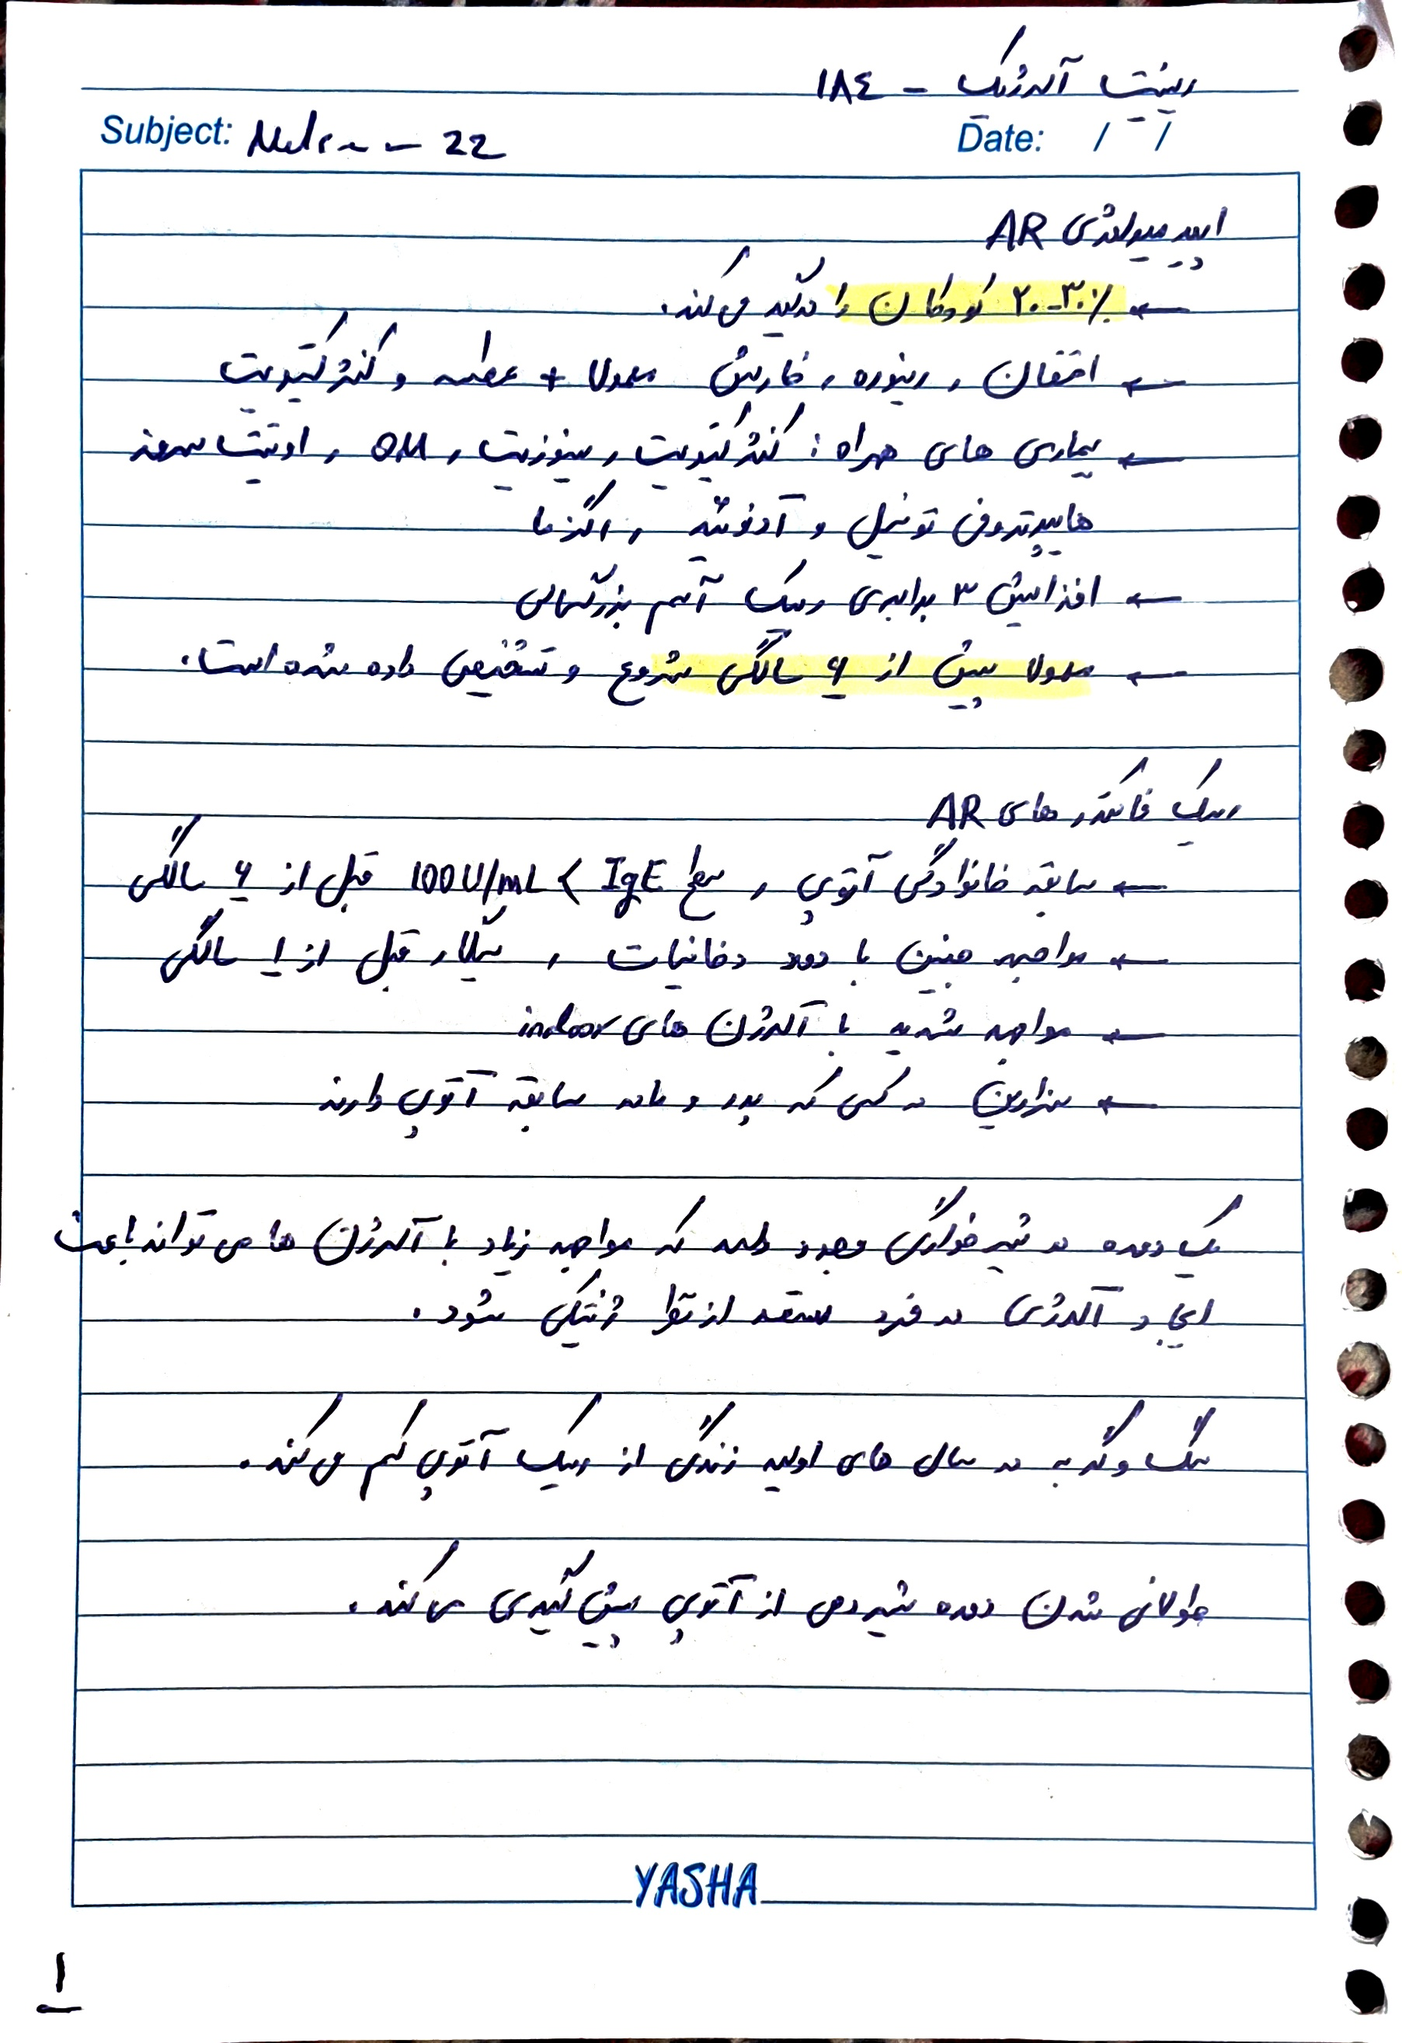
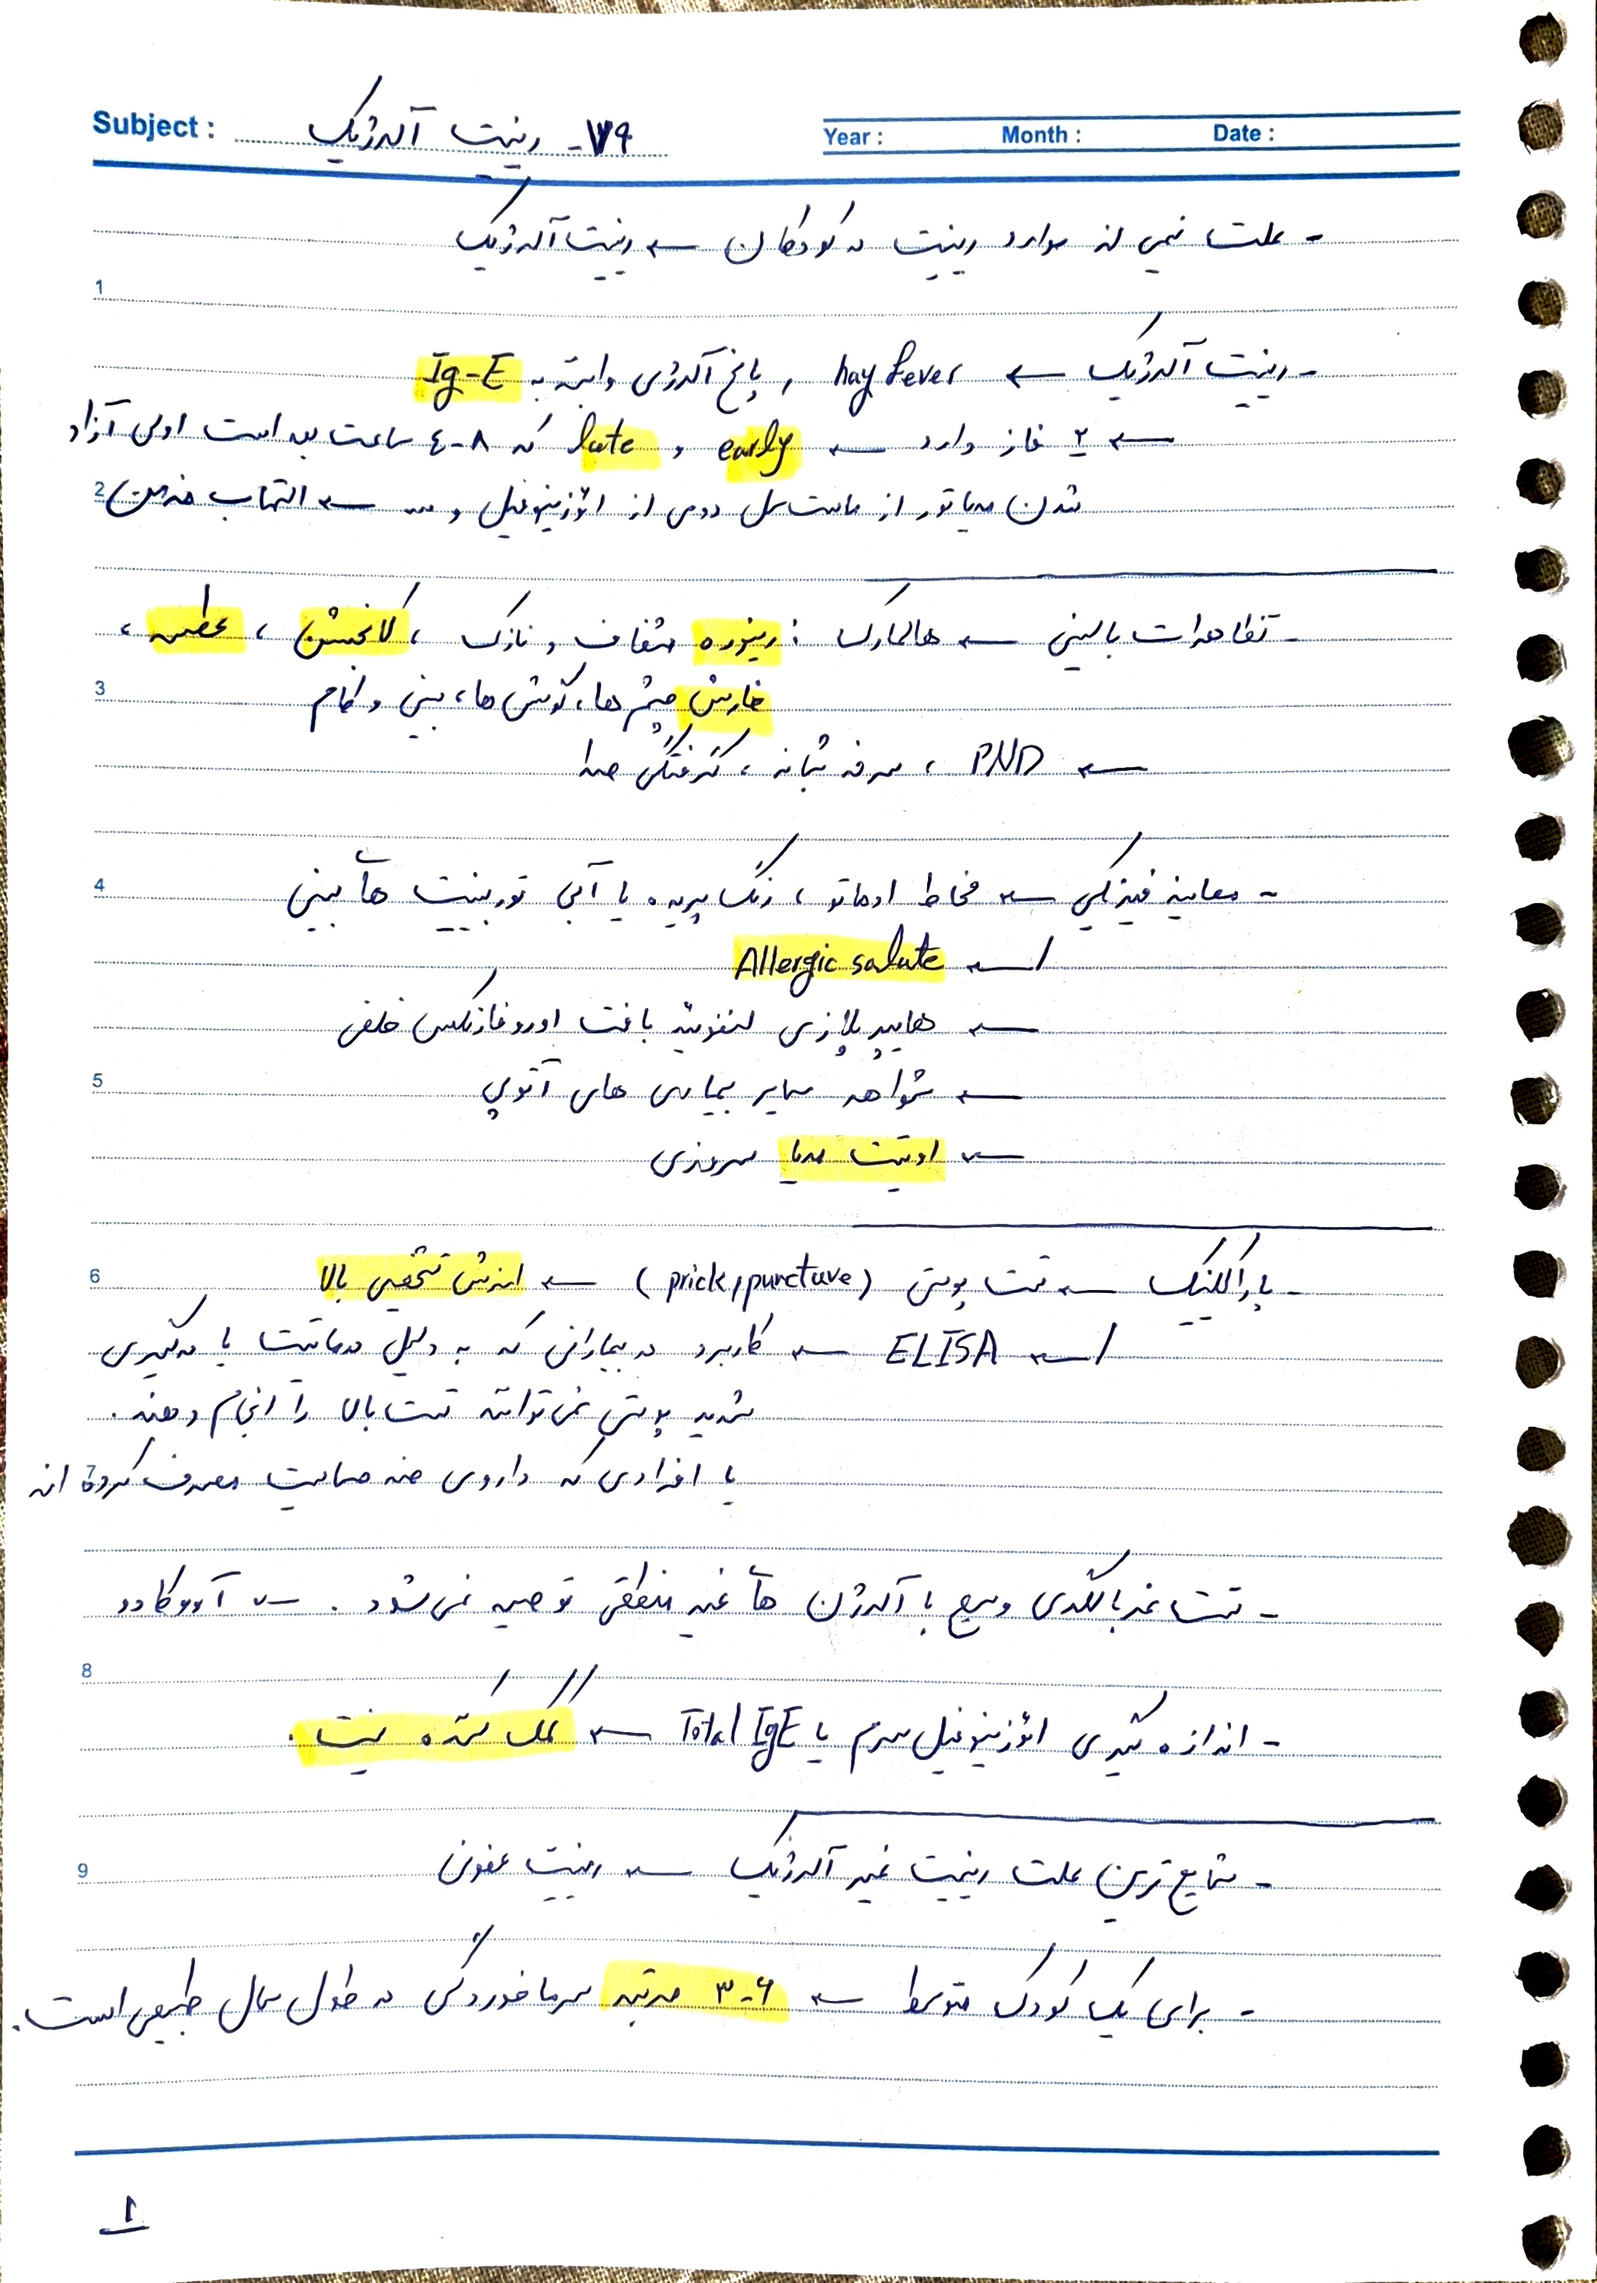
Add allergic rhinitis

Changed region(s): [[0.0, 0.0, 1.0, 1.0], [0.031, 0.7174, 0.062, 0.7486], [0.0, 0.6862, 0.031, 0.7174]]

diff --git a/pediatrics/ped-immunology/allergic rhinitis/allergic rhinitis.tex b/pediatrics/ped-immunology/allergic rhinitis/allergic rhinitis.tex
@@ -2,15 +2,20 @@
 % UTF-8. Standalone: run xelatex "allergic rhinitis.tex" in this directory.
 % Inclusion: define \AllergicRhinitisInNotebook before \input in a XePersian document.
 % Source: Google Drive Notebook/allergic rhinitis, ascending original filename order.
-% pic01.jpg = 20261012_174728683.jpg; 1UWvvunrlol2BDllTc7tXSwr3hFYJk3xF
-% pic02.jpg = 20261012_174733697.jpg; 1tN04Yz6Duy6MEhcEBW_KpUhMVedJr-67
-% pic03.jpg = 20261012_174737021.jpg; 1PRBROUplLNht5UudHy7kkrmO8-r-gJGO
-% pic04.jpg = 20261012_174741948.jpg; 16fUHRWqQ1mqpsI6fzSbtcIyt0GnQSTdq
-% pic05.jpg = 20261012_174746233.jpg; 1zIyxUjajWK0vhNuuFlQqSl-K9kXNowVv
-% pic06.jpg = 20261012_174750500.jpg; 1pCa0sOH4Js1AFCS9HGTjWpBRB7xfALXr
-% pic07.jpg = 20261012_174754320.jpg; 1OBGEi_2po_KetAK2e7w0Btf_9_wilItP
-% pic08.jpg = 20261012_174758690.jpg; 1JQRxSGRJ6f2QwZczjzWiC0g65hoUOYUD
-% pic09.jpg = 20261012_174802404.jpg; 1bgovOosWvuvWcqPqOOCc6Sz2x_YK5C2f
+% Earlier images are preserved byte-for-byte under images/previous/.
+% previous/pic01.jpg = 20261012_174728683.jpg; 1UWvvunrlol2BDllTc7tXSwr3hFYJk3xF
+% previous/pic02.jpg = 20261012_174733697.jpg; 1tN04Yz6Duy6MEhcEBW_KpUhMVedJr-67
+% previous/pic03.jpg = 20261012_174737021.jpg; 1PRBROUplLNht5UudHy7kkrmO8-r-gJGO
+% previous/pic04.jpg = 20261012_174741948.jpg; 16fUHRWqQ1mqpsI6fzSbtcIyt0GnQSTdq
+% previous/pic05.jpg = 20261012_174746233.jpg; 1zIyxUjajWK0vhNuuFlQqSl-K9kXNowVv
+% previous/pic06.jpg = 20261012_174750500.jpg; 1pCa0sOH4Js1AFCS9HGTjWpBRB7xfALXr
+% previous/pic07.jpg = 20261012_174754320.jpg; 1OBGEi_2po_KetAK2e7w0Btf_9_wilItP
+% previous/pic08.jpg = 20261012_174758690.jpg; 1JQRxSGRJ6f2QwZczjzWiC0g65hoUOYUD
+% previous/pic09.jpg = 20261012_174802404.jpg; 1bgovOosWvuvWcqPqOOCc6Sz2x_YK5C2f
+% New three-page transcription appended after the earlier source appendix.
+% pic01.jpg = 20261018_195817441.jpg; 1PtsGl9k_aM0tBnisLDq75FLkIIIZ8Xmn
+% pic02.jpg = 20261018_195821800.jpg; 19Ts1azzm9DvZgiHx91SMA798DvaapjC0
+% pic03.jpg = 20261018_195830142.jpg; 1e4OoS-GkgsVvxT_qgqTAgiX_0mqXqnHV
 \ifdefined\AllergicRhinitisInNotebook
   \let\ARfinish\relax
 \else
@@ -280,9 +285,9 @@
 \end{itemize}
 
 \clearpage\section*{پیوست: تصاویر کامل منبع}
-\IfFileExists{images/pic01.jpg}
-  {\def\ARimagepath{images/}}
-  {\def\ARimagepath{pediatrics/ped-immunology/allergic rhinitis/images/}}
+\IfFileExists{images/previous/pic01.jpg}
+  {\def\ARimagepath{images/previous/}}
+  {\def\ARimagepath{pediatrics/ped-immunology/allergic rhinitis/images/previous/}}
 \newcommand{\ARoriginal}[1]{\clearpage\begin{center}
   \textbf{تصویر اصلی \lr{#1}}\par\smallskip
   \includegraphics[width=\textwidth,height=0.89\textheight,keepaspectratio]{\ARimagepath pic#1.jpg}
@@ -296,5 +301,145 @@
 \ARoriginal{07}
 \ARoriginal{08}
 \ARoriginal{09}
+
+\clearpage
+\begin{center}
+{\Large\bfseries رینیت آلرژیک ـ ۷۹}\par
+{\large یادداشتهای سهصفحهای}
+\end{center}
+
+% New source image 01: 20261018_195817441.jpg (handwritten page 1).
+\section*{تصویر جدید ۱}
+\textbf{سربرگ و حاشیه:} \lr{Subject:} ۷۹ ـ رینیت آلرژیک؛
+\lr{Year:}، \lr{Month:}، \lr{Date:} (خالی)؛
+شمارههای چاپی کنار سطرها: ۱، ۲، ۳، ۴، ۵، ۶، ۷، ۸، ۹؛ شمارهٔ دستنویس پایین صفحه: ۱.
+
+\subsection*{رینیت آلرژیک}
+\begin{itemize}
+\item علت نیمی از موارد رینیت در کودکان: رینیت آلرژیک.
+\item رینیت آلرژیک: \lr{hay fever}، پاسخ آلرژی وابسته به \textbf{\lr{Ig-E}}.
+\item ۲ فاز دارد: \textbf{\lr{early}} و \textbf{\lr{late}} که \ARrange{4}{8} ساعت بعد است؛ اولی آزاد شدن مدیاتور از ماستسل، دومی از ائوزینوفیل و \ldots؛ التهاب مزمن.
+\end{itemize}
+
+\subsection*{تظاهرات بالینی}
+\begin{itemize}
+\item هالمارک: \textbf{رینورهٔ} شفاف و نازک، \textbf{لاکریمیشن}، \textbf{عطسه}، \textbf{خارش} چشمها، گوشها، بینی و کام.
+\item \lr{PND}، سرفهٔ شبانه، گرفتگی صدا.
+\end{itemize}
+
+\subsection*{معاینهٔ فیزیکی}
+\begin{itemize}
+\item مخاط ادماتو، رنگپریده یا آبی توربینتهای بینی.
+\item \textbf{\lr{Allergic salute}}.
+\item هایپرپلازی لنفوئید بافت اوروفارنکس خلف.
+\item شواهد سایر بیماریهای آتوپی.
+\item \textbf{اوتیت مدیا} سروزی.
+\end{itemize}
+
+\subsection*{پاراکلینیک}
+\begin{itemize}
+\item تست پوستی (\lr{prick, puncture}): \textbf{ارزش تشخیصی بالا}.
+\item \lr{ELISA}: کاربرد در بیمارانی که به دلیل درماتیت یا درموگرافیسم شدید پوستی نمیتوانند تست بالا را انجام دهند؛ یا افرادی که داروی ضدحساسیت مصرف کردهاند.
+\item تست غربالگری وسیع با آلرژنها غیرمنطقی توصیه نمیشود. \ldots{} ـ آووکادو.
+\item اندازهگیری ائوزینوفیل سرم یا \lr{Total IgE}: \textbf{کمککننده نیست}.
+\end{itemize}
+
+\subsection*{رینیت غیرآلرژیک}
+\begin{itemize}
+\item شایعترین علت رینیت غیرآلرژیک: رینیت عفونی.
+\item برای یک کودک متوسط، \textbf{\ARrange{3}{6} مرتبه} سرماخوردگی در طول سال طبیعی است.
+\end{itemize}
+
+% New source image 02: 20261018_195821800.jpg (handwritten page 2).
+\clearpage\section*{تصویر جدید ۲}
+\textbf{سربرگ و حاشیه:} \lr{Subject:} ۷۹ ـ رینیت آلرژیک؛
+\lr{Year:}، \lr{Month:}، \lr{Date:} (خالی)؛
+شمارههای چاپی کنار سطرها: ۱، ۲، ۳، ۴، ۵، ۶، ۷، ۸، ۹؛ شمارهٔ دستنویس پایین صفحه: ۲.
+
+\subsection*{رینیت غیرآلرژیک غیرعفونی (رینیت وازوموتور)}
+\begin{itemize}
+\item رینوره، عطسه، دیسچارچ شفاف.
+\item برخورد با محرکها، دود سیگار، عطرها، الکل، اتر.
+\end{itemize}
+
+\subsection*{سندرم رینیت غیرآلرژیک با ائوزینوفیلی}
+\begin{itemize}
+\item دیسچارچ شفاف + ائوزینوفیل در اسمیر بینی.
+\item در کودکان ناشایع است.
+\item هوای سرد، غذای تند، نور شدید.
+\item درمان: \textbf{ایپراتروپیوم} موضعی قبل از مواجهه.
+\end{itemize}
+
+\subsection*{رینیت مدیکامنتوزا}
+\begin{itemize}
+\item مصرف بیش از حد دکونژستانهای موضعی.
+\item \textbf{فنیلافرین، اکسیمتازولین}.
+\item درمان: توقف دارو، کورتیکواستروئید موضعی یا خوراکی.
+\end{itemize}
+
+\subsection*{علائم هایپرتروفی آدنوئید}
+تنفس دهانی، خر و پف، صدای هایپونازال، اوتیت مدیا مزمن.
+
+\subsection*{پولیپ بینی}
+\begin{itemize}
+\item \textbf{زیر ۱۰ سال نادر است} ولی اگر دیده شد، بررسی از نظر \textbf{\lr{CF}}، پرایمری سیلیاری دیسکینزی.
+\item \textbf{معمولاً دوطرفه}.
+\end{itemize}
+
+\subsection*{بیماری تنفسی ناشی از آسپرین}
+آسم، حساسیت به آسپرین، پولیپ بینی، رینوسینوزیت مزمن.
+
+\textbf{رینیت یکطرفه: شک به جسم خارجی}.
+
+\subsection*{درمان دارویی}
+\begin{itemize}
+\item کورتیکواستروئید اینترانازال: \textbf{مؤثرترین درمان} در رینیت آلرژیک و غیرآلرژیک.
+\item بکلومتازون، بودزوناید، فلوتیکازون، مومتازون، تریامسینولون.
+\end{itemize}
+
+% New source image 03: 20261018_195830142.jpg (handwritten page 3).
+\clearpage\section*{تصویر جدید ۳}
+\textbf{سربرگ و حاشیه:} \lr{Subject:} ۷۹ ـ رینیت آلرژیک؛
+\lr{Year:}، \lr{Month:}، \lr{Date:} (خالی)؛
+شمارههای چاپی کنار سطرها: ۱، ۲، ۳، ۴، ۵، ۶، ۷، ۸، ۹؛ شمارهٔ دستنویس پایین صفحه: ۳.
+
+\subsection*{آنتیهیستامینها}
+\begin{itemize}
+\item \textbf{در گرفتگی بینی خیلی مؤثر نیستند} ولی بقیهٔ علائم را خوب رفع میکنند.
+\item نسل اول عوارض دارند: \lr{Sedation}؛ آنتیکولینرژیک: رتنشن ادراری، خشکی دهان، تاکیکاردی، یبوست.
+\item نسل دوم: ستیریزین، لوراتادین، فکسوفنادین؛ خوراکی.
+\item اسپری: برای کودکان \textbf{بالای ۵ سال} میتوانیم بدهیم؛ آزلاستین، اولوپاتادین.
+\end{itemize}
+
+\subsection*{دکونژستانها}
+\begin{itemize}
+\item \textbf{در کودکان زیر ۴ سال نمیدهیم}.
+\item خوراکی، اسپری؛ بیش از ۳ روز نمیدهیم.
+\item سودوافدرین، فنیلافرین.
+\end{itemize}
+
+\subsection*{ایپراتروپیوم بروماید اسپری}
+\begin{itemize}
+\item بیشتر برای رینیت غیرآلرژیک.
+\item رینیت عفونت ویروسی.
+\end{itemize}
+
+\subsection*{رینیت آلرژیک}
+\begin{itemize}
+\item مودیفایرهای لکوترین: مونتهلوکاست.
+\item آلرژن ایمونوتراپی.
+\end{itemize}
+
+\clearpage\section*{پیوست: سه تصویر جدید منبع}
+\IfFileExists{images/pic01.jpg}
+  {\def\ARnewimagepath{images/}}
+  {\def\ARnewimagepath{pediatrics/ped-immunology/allergic rhinitis/images/}}
+\newcommand{\ARneworiginal}[1]{\clearpage\begin{center}
+  \textbf{تصویر جدید اصلی \lr{#1}}\par\smallskip
+  \includegraphics[width=\textwidth,height=0.89\textheight,keepaspectratio]{\ARnewimagepath pic#1.jpg}
+\end{center}}
+\ARneworiginal{01}
+\ARneworiginal{02}
+\ARneworiginal{03}
 \endgroup
 \ARfinish
